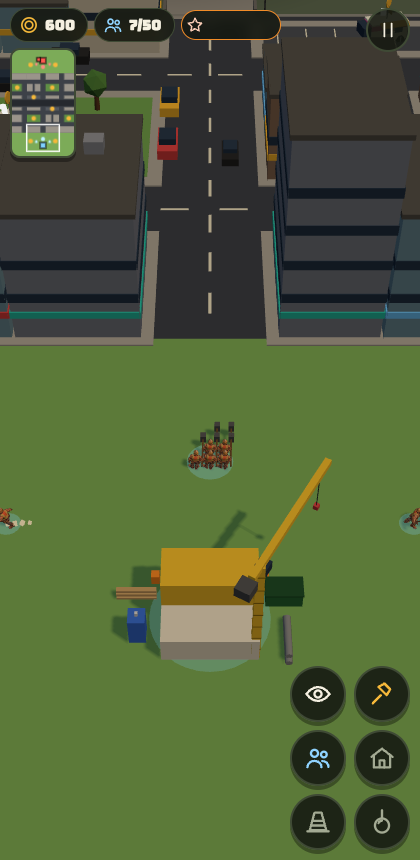
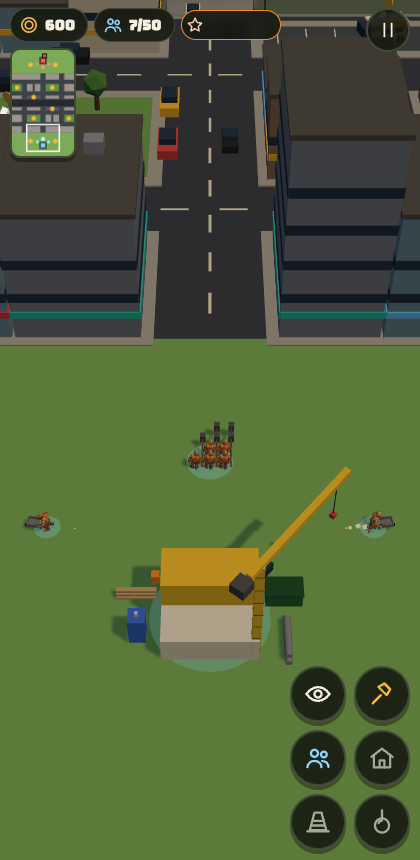
B95: Weather: about one match in four (seed % 4) is rainy - 500 thin streaks in one instanced draw following the camera, tiny splashes where they land, sky + fog greyed and the sun dimmed 45% on top of the time of day (setOvercast). Render only, sim untouched
Claude-Session: https://claude.ai/code/session_01FXzpagnksiDmMAqP3MTiXJ

diff --git a/src/main.js b/src/main.js
@@ -1,22 +1,22 @@
 // Entry point: wires sim + render + input + UI and runs the fixed-step loop.
-import { renderer, scene, camera, followSun, THREE, setTimeOfDay } from './render/scene.js?v=94';
-import { buildWorld, updateWorld, setDusk } from './render/world.js?v=94';
-import { syncRender, clearRender, bump } from './render/sync.js?v=94';
-import { handleEvents, updateFx, clearFx } from './fx/fx.js?v=94';
-import { newSim, getSim, step } from './sim/sim.js?v=94';
-import { TICK } from './config/factions.js?v=94';
-import { CAM, applyCam, resetCam, onResize } from './camera/camera.js?v=94';
-import { initInput, lockPageZoom } from './input/input.js?v=94';
-import { refreshHUD, resetHUD, updatePlaceBar } from './ui/hud.js?v=94';
-import { resetUI } from './ui/state.js?v=94';
-import { fillIcons, svg } from './ui/icons.js?v=94';
-import { noteAlerts, updateAlert, clearAlert } from './ui/alert.js?v=94';
-import { updateMinimap } from './ui/minimap.js?v=94';
-import { isMuted, setMuted } from './fx/sfx.js?v=94';
-import { loadChars } from './render/chars.js?v=94';
-import { FC } from './render/models.js?v=94';
+import { renderer, scene, camera, followSun, THREE, setTimeOfDay } from './render/scene.js?v=95';
+import { buildWorld, updateWorld, setDusk, setRain } from './render/world.js?v=95';
+import { syncRender, clearRender, bump } from './render/sync.js?v=95';
+import { handleEvents, updateFx, clearFx } from './fx/fx.js?v=95';
+import { newSim, getSim, step } from './sim/sim.js?v=95';
+import { TICK } from './config/factions.js?v=95';
+import { CAM, applyCam, resetCam, onResize } from './camera/camera.js?v=95';
+import { initInput, lockPageZoom } from './input/input.js?v=95';
+import { refreshHUD, resetHUD, updatePlaceBar } from './ui/hud.js?v=95';
+import { resetUI } from './ui/state.js?v=95';
+import { fillIcons, svg } from './ui/icons.js?v=95';
+import { noteAlerts, updateAlert, clearAlert } from './ui/alert.js?v=95';
+import { updateMinimap } from './ui/minimap.js?v=95';
+import { isMuted, setMuted } from './fx/sfx.js?v=95';
+import { loadChars } from './render/chars.js?v=95';
+import { FC } from './render/models.js?v=95';
 
-export const BUILD = 94; // written by `npm run bump`
+export const BUILD = 95; // written by `npm run bump`
 lockPageZoom();
 fillIcons();
 buildWorld();
@@ -38,7 +38,9 @@ const menu = document.getElementById('menu'), endEl = document.getElementById('e
 let running = false;
 function start(f) {
   clearRender(); clearFx(); clearAlert();
-  newSim(f, (Date.now() & 0xffffff) + 1, diff, mode);
+  const seed = (Date.now() & 0xffffff) + 1;
+  newSim(f, seed, diff, mode);
+  setRain(seed % 4 === 0); // about one match in four is rainy (render only)
   // Your faction's colour tints the HUD accents (power meter, command cards); friend/foe stays blue/red.
   const fc = new THREE.Color(FC[f].main), hx = (c) => '#' + c.getHexString(), root = document.documentElement.style;
   root.setProperty('--fc', hx(fc)); root.setProperty('--fc2', hx(fc.clone().lerp(new THREE.Color(0xffffff), 0.45)));

diff --git a/src/render/world.js b/src/render/world.js
@@ -1,9 +1,10 @@
 // Static city: streets, sidewalks, buildings, parks, freeway trench + overpasses, ambient traffic.
 // Built once from map/layout.js. Mostly InstancedMesh so it stays cheap on phones.
-import { THREE, scene, mat, box } from './scene.js?v=94';
-import { MAP, BLOCKS, TREES, PARKED, TRENCH, OVERPASSES, AVENUES, CROSS_STREETS, HOME_Z, inRect, walkH } from '../map/layout.js?v=94';
-import { hash } from '../util/math.js?v=94';
-import { emit } from '../fx/particles.js?v=94';
+import { THREE, scene, mat, box, setOvercast } from './scene.js?v=95';
+import { CAM } from '../camera/camera.js?v=95';
+import { MAP, BLOCKS, TREES, PARKED, TRENCH, OVERPASSES, AVENUES, CROSS_STREETS, HOME_Z, inRect, walkH } from '../map/layout.js?v=95';
+import { hash } from '../util/math.js?v=95';
+import { emit } from '../fx/particles.js?v=95';
 
 const COL = {
   asphalt: 0x3d4148, sidewalk: 0xa8a49a, grass: 0x6f9e50, lawn: 0x7cab58, lot: 0x4b4f56, stripe: 0xe8e2c8,
@@ -301,7 +302,33 @@ export function setDusk(k) {
   if (lampHeads) lampHeads.material.emissive.setRGB(1 * k, 0.85 * k, 0.45 * k);
   if (windows) windows.material.emissive.setRGB(0.5 * k, 0.36 * k, 0.12 * k);
 }
+// Rain: 500 thin streaks in a box that follows the camera target, each landing with a tiny splash. One draw call.
+let rain = null;
+export function setRain(on) {
+  if (!on) { if (rain) { rain.im.visible = false; rain.on = false; } setOvercast(0); return; }
+  if (!rain) {
+    const N = 500, im = new THREE.InstancedMesh(new THREE.BoxGeometry(0.03, 0.9, 0.03), new THREE.MeshBasicMaterial({ color: 0xcfe2f2, transparent: true, opacity: 0.45, depthWrite: false }), N);
+    im.frustumCulled = false; scene.add(im);
+    rain = { im, N, drops: Array.from({ length: N }, () => ({ x: (Math.random() - 0.5) * 80, y: Math.random() * 30, z: (Math.random() - 0.5) * 80 })) };
+  }
+  rain.on = true; rain.im.visible = true; setOvercast(1);
+}
+function updateRain(dt) {
+  if (!rain || !rain.on) return;
+  Q.identity(); Sv.set(1, 1, 1);
+  rain.drops.forEach((d, i) => {
+    d.y -= dt * 22; d.x += dt * 2;
+    const wx = CAM.tx + d.x, wz = CAM.tz + d.z, gy = walkH(wx, wz);
+    if (d.y < gy) {
+      if (i % 6 === 0) emit({ x: wx, y: gy + 0.05, z: wz, vx: (Math.random() - 0.5), vy: 1.2, vz: (Math.random() - 0.5), c: 0xdbe8f2, s: 0.08, life: 0.25, g: 9 });
+      d.y = gy + 20 + Math.random() * 10; d.x = (Math.random() - 0.5) * 80; d.z = (Math.random() - 0.5) * 80;
+    }
+    M.compose(V.set(wx, d.y, wz), Q, Sv); rain.im.setMatrixAt(i, M);
+  });
+  rain.im.instanceMatrix.needsUpdate = true;
+}
 export function updateWorld(dt, S) {
+  updateRain(dt);
   updateLife(dt, S);
   if (!traffic) return;
   const { im, cars, lights } = traffic;

diff --git a/index.html b/index.html
@@ -6,7 +6,7 @@
 <meta name="viewport" content="width=device-width,initial-scale=1,maximum-scale=1,user-scalable=no,viewport-fit=cover">
 <link rel="preconnect" href="https://fonts.googleapis.com">
 <link rel="stylesheet" href="https://fonts.googleapis.com/css2?family=Bungee&family=Lilita+One&display=swap">
-<link rel="stylesheet" href="./src/ui/style.css?v=94">
+<link rel="stylesheet" href="./src/ui/style.css?v=95">
 <!-- No build step needed: GitHub Pages serves this file straight from main, so bare 'three' imports resolve here. -->
 <script type="importmap">
 { "imports": { "three": "./vendor/three/three.module.min.js", "three/examples/jsm/": "./vendor/three/jsm/" } }
@@ -34,7 +34,7 @@
 <div id="box"></div>
 <div id="holdRing" hidden></div>
 <div id="menu" class="overlay">
-  <h1>Culture <em>Wars</em><span>GREYBOX 04 · <b id="build">B94</b></span></h1>
+  <h1>Culture <em>Wars</em><span>GREYBOX 04 · <b id="build">B95</b></span></h1>
   <div class="diff" id="diff"><button type="button" data-d="0" aria-label="Easy"><span class="ic" data-i="star"></span></button><button type="button" data-d="1" class="on" aria-label="Normal"><span class="ic" data-i="star"></span><span class="ic" data-i="star"></span></button><button type="button" data-d="2" aria-label="Hard"><span class="ic" data-i="star"></span><span class="ic" data-i="star"></span><span class="ic" data-i="star"></span></button><i class="sep"></i><button type="button" class="mode" data-m="vs" aria-label="Versus"><span class="ic" data-i="home"></span></button><button type="button" class="mode" data-m="hill" aria-label="King of the Hill"><span class="ic" data-i="flag"></span></button></div>
   <div class="picks">
     <button class="pick" data-f="bw" type="button"><span class="ic" data-i="truck"></span>Backwoods<small>FEWER · TOUGHER</small></button>
@@ -63,6 +63,6 @@
   setTimeout(function () { if (!window.__cwBooted) show('Game script did not start (old cached file? wait a few minutes and reload)'); }, 8000);
 })();
 </script>
-<script type="module" src="./src/main.js?v=94" onerror="__cwLoadFail()"></script>
+<script type="module" src="./src/main.js?v=95" onerror="__cwLoadFail()"></script>
 </body>
 </html>

diff --git a/src/render/sync.js b/src/render/sync.js
@@ -1,18 +1,18 @@
 // Mirrors sim state into the scene every frame. Reads the sim, never writes to it.
-import { THREE, scene, camera, mat, box, basic, ringMesh, disposeObj, casts } from './scene.js?v=94';
-import { makeMember, bldMesh, nodeMesh, formation, FC } from './models.js?v=94';
-import { makeChar, charsReady, play, CAST } from './chars.js?v=94';
-import { emit } from '../fx/particles.js?v=94';
-import { bark } from '../fx/sfx.js?v=94';
-import { TICK } from '../config/factions.js?v=94';
-import { walkH } from '../map/layout.js?v=94';
-import { NODE_AMOUNT, BLD, BUILD_RADIUS, FACTIONS } from '../config/factions.js?v=94';
-import { CAM } from '../camera/camera.js?v=94';
+import { THREE, scene, camera, mat, box, basic, ringMesh, disposeObj, casts } from './scene.js?v=95';
+import { makeMember, bldMesh, nodeMesh, formation, FC } from './models.js?v=95';
+import { makeChar, charsReady, play, CAST } from './chars.js?v=95';
+import { emit } from '../fx/particles.js?v=95';
+import { bark } from '../fx/sfx.js?v=95';
+import { TICK } from '../config/factions.js?v=95';
+import { walkH } from '../map/layout.js?v=95';
+import { NODE_AMOUNT, BLD, BUILD_RADIUS, FACTIONS } from '../config/factions.js?v=95';
+import { CAM } from '../camera/camera.js?v=95';
 const fac0 = (S) => FACTIONS[S.players[0].f];
-import { Q, pl, getSim } from '../sim/sim.js?v=94';
-import { UI } from '../ui/state.js?v=94';
-import { fxConfetti, fxDeath } from '../fx/fx.js?v=94';
-import { lerpAngle } from '../util/math.js?v=94';
+import { Q, pl, getSim } from '../sim/sim.js?v=95';
+import { UI } from '../ui/state.js?v=95';
+import { fxConfetti, fxDeath } from '../fx/fx.js?v=95';
+import { lerpAngle } from '../util/math.js?v=95';
 // Selection rings take your faction colour, washed toward white so they still pop on any ground.
 const selCol = () => { const S = getSim(), f = S && S.players[0].f; return f ? new THREE.Color(FC[f].main).lerp(new THREE.Color(0xffffff), 0.35).getHex() : 0xffffff; };
 

diff --git a/src/ui/hud.js b/src/ui/hud.js
@@ -1,15 +1,15 @@
 // HUD: resource chips, context panel, command buttons, floating placement confirm, long-press labels.
 // Buttons are described as data ("specs") each refresh; the DOM is rebuilt only when the set of buttons changes.
 // Every action goes through sim.command(); Q.* is used only for instant feedback (shake, dim).
-import { svg } from './icons.js?v=94';
-import { UI, select, selSquads } from './state.js?v=94';
-import { getSim, pl, fac, Q, command, count, cpUsed, cpCap, hqOf } from '../sim/sim.js?v=94';
-import { BLD, BUILD_KINDS, TRAIN_SLOTS, UPG, REQ } from '../config/factions.js?v=94';
-import { CAM, toggleView, focus } from '../camera/camera.js?v=94';
-import { camera } from '../render/scene.js?v=94';
-import { walkH } from '../map/layout.js?v=94';
-import { THREE } from '../render/scene.js?v=94';
-import { showHint } from './hint.js?v=94';
+import { svg } from './icons.js?v=95';
+import { UI, select, selSquads } from './state.js?v=95';
+import { getSim, pl, fac, Q, command, count, cpUsed, cpCap, hqOf } from '../sim/sim.js?v=95';
+import { BLD, BUILD_KINDS, TRAIN_SLOTS, UPG, REQ } from '../config/factions.js?v=95';
+import { CAM, toggleView, focus } from '../camera/camera.js?v=95';
+import { camera } from '../render/scene.js?v=95';
+import { walkH } from '../map/layout.js?v=95';
+import { THREE } from '../render/scene.js?v=95';
+import { showHint } from './hint.js?v=95';
 
 const panelEl = document.getElementById('panel'), cmdEl = document.getElementById('cmd'), queueEl = document.getElementById('queue');
 const placeBar = document.getElementById('placeBar'), tipEl = document.getElementById('tip');

diff --git a/src/render/scene.js b/src/render/scene.js
@@ -31,11 +31,17 @@ export function followSun(x, z) {
 /** Time of day, k = 0 (morning) .. 1 (golden hour): the sun drops lower, warmer and longer-shadowed, the sky
  * and fog go peach, the sky fill dims. Only colours and one direction change, so it costs nothing per frame. */
 const DAY = { sun: new THREE.Color(0xffe0b0), dusk: new THREE.Color(0xff9c55), sky: new THREE.Color(0xa9c8de), skyD: new THREE.Color(0xf2b98e), hemi: new THREE.Color(0xdcecff), hemiD: new THREE.Color(0xffd2b0) };
+let lastTod = 0, overcast = 0;
+const GREY = new THREE.Color(0x8d969e);
+/** Rain: greys the sky/fog and dims the sun on top of the time of day (k 0..1). */
+export function setOvercast(k) { overcast = k; setTimeOfDay(lastTod); }
 export function setTimeOfDay(k) {
+  lastTod = k;
   sun.color.copy(DAY.sun).lerp(DAY.dusk, k); sun.intensity = 1.25 - 0.1 * k;
   SUN_OFF.set(30 + 25 * k, 60 - 18 * k, 22 + 14 * k);
   scene.background.copy(DAY.sky).lerp(DAY.skyD, k); scene.fog.color.copy(scene.background);
   hemi.color.copy(DAY.hemi).lerp(DAY.hemiD, k); hemi.intensity = 0.85 - 0.08 * k;
+  if (overcast > 0) { scene.background.lerp(GREY, 0.55 * overcast); scene.fog.color.copy(scene.background); sun.intensity *= 1 - 0.45 * overcast; }
 }
 /** Mark a subtree as shadow casters. */
 export function casts(o) { o.traverse((n) => { if (n.isMesh) n.castShadow = true; }); return o; }

diff --git a/src/input/input.js b/src/input/input.js
@@ -4,13 +4,13 @@
 //   hold then drag  = box select
 //   2 fingers       = pinch zoom + twist to rotate + drag to pan
 //   mouse: right-drag = box select, wheel = zoom; keys WASD/arrows pan, Q/E rotate, V ghost cam, Esc cancel
-import { THREE, camera, canvas } from '../render/scene.js?v=94';
-import { walkH } from '../map/layout.js?v=94';
-import { getSim, command } from '../sim/sim.js?v=94';
-import { UI, select, selSquads } from '../ui/state.js?v=94';
-import { CAM, panBy, clampCam, toggleView, pxPerUnit } from '../camera/camera.js?v=94';
-import { fxMarker } from '../fx/fx.js?v=94';
-import { ack } from '../render/sync.js?v=94';
+import { THREE, camera, canvas } from '../render/scene.js?v=95';
+import { walkH } from '../map/layout.js?v=95';
+import { getSim, command } from '../sim/sim.js?v=95';
+import { UI, select, selSquads } from '../ui/state.js?v=95';
+import { CAM, panBy, clampCam, toggleView, pxPerUnit } from '../camera/camera.js?v=95';
+import { fxMarker } from '../fx/fx.js?v=95';
+import { ack } from '../render/sync.js?v=95';
 
 const ray = new THREE.Raycaster(), ndc = new THREE.Vector2(), tmp = new THREE.Vector3();
 export function groundAt(cx, cy) {

diff --git a/src/fx/fx.js b/src/fx/fx.js
@@ -1,12 +1,12 @@
 // Visual effects. Reads sim events, never changes the sim.
 // To add an effect for a new mechanic: emit S.events.push({k:'myThing', ...}) in the sim,
 // then add a case in handleEvents below.
-import { THREE, scene, mat, cyl, basic, disposeObj } from '../render/scene.js?v=94';
-import { walkH } from '../map/layout.js?v=94';
-import { sfx } from './sfx.js?v=94';
-import { shake, CAM } from '../camera/camera.js?v=94';
-import { FC } from '../render/models.js?v=94';
-import { emit, updateParticles, clearParticles, burstHit, burstShot, burstCoins } from './particles.js?v=94';
+import { THREE, scene, mat, cyl, basic, disposeObj } from '../render/scene.js?v=95';
+import { walkH } from '../map/layout.js?v=95';
+import { sfx } from './sfx.js?v=95';
+import { shake, CAM } from '../camera/camera.js?v=95';
+import { FC } from '../render/models.js?v=95';
+import { emit, updateParticles, clearParticles, burstHit, burstShot, burstCoins } from './particles.js?v=95';
 
 const fx = [];
 function addFx(obj, life, upd) { scene.add(obj); fx.push({ obj, life, t: 0, upd }); }

diff --git a/src/sim/sim.js b/src/sim/sim.js
@@ -9,11 +9,11 @@
 import {
   TICK, START_CASH, BUILD_RADIUS, MAX_WORKERS, NODE_AMOUNT, GATHER_T, CARRY, BASE_INCOME, DEPOT_INCOME,
   COUNTER, REQ, UPG, UPT, BLD, FACTIONS,
-} from '../config/factions.js?v=94';
-import { MAP, NODES, BASES, walkH } from '../map/layout.js?v=94';
-import { markCircle, isBlocked, lineClear, nearestFree, findPath, blocked, cellOf, cellCenter, inGrid } from '../map/grid.js?v=94';
-import { mulberry32 } from '../util/math.js?v=94';
-import { aiStep } from './ai.js?v=94';
+} from '../config/factions.js?v=95';
+import { MAP, NODES, BASES, walkH } from '../map/layout.js?v=95';
+import { markCircle, isBlocked, lineClear, nearestFree, findPath, blocked, cellOf, cellCenter, inGrid } from '../map/grid.js?v=95';
+import { mulberry32 } from '../util/math.js?v=95';
+import { aiStep } from './ai.js?v=95';
 
 let S = null;
 export const getSim = () => S;

diff --git a/src/ui/minimap.js b/src/ui/minimap.js
@@ -1,8 +1,8 @@
 // Minimap, top-left under the resource chips. Fixed orientation: your base at the bottom (+z), enemy at the top.
 // Tap or drag on it to move the camera there. Static city is drawn once; units/buildings redraw ~10x a second.
-import { MAP, BLOCKS, TRENCH } from '../map/layout.js?v=94';
-import { CAM, focus } from '../camera/camera.js?v=94';
-import { getSim } from '../sim/sim.js?v=94';
+import { MAP, BLOCKS, TRENCH } from '../map/layout.js?v=95';
+import { CAM, focus } from '../camera/camera.js?v=95';
+import { getSim } from '../sim/sim.js?v=95';
 
 const cv = document.getElementById('mini'), ctx = cv.getContext('2d');
 const bg = document.createElement('canvas'), bctx = bg.getContext('2d');

diff --git a/src/ui/alert.js b/src/ui/alert.js
@@ -1,9 +1,9 @@
 // Under-attack alert: when something of yours is hit somewhere the camera is not looking, a red arrow pulses on
 // the screen edge pointing at it. Tap the arrow to fly there. Newest fight wins; it fades 5 s after the last hit.
-import { THREE, camera } from '../render/scene.js?v=94';
-import { walkH } from '../map/layout.js?v=94';
-import { focus } from '../camera/camera.js?v=94';
-import { svg } from './icons.js?v=94';
+import { THREE, camera } from '../render/scene.js?v=95';
+import { walkH } from '../map/layout.js?v=95';
+import { focus } from '../camera/camera.js?v=95';
+import { svg } from './icons.js?v=95';
 
 const el = document.getElementById('alert');
 el.innerHTML = svg('up');

diff --git a/src/render/chars.js b/src/render/chars.js
@@ -2,7 +2,7 @@
 // clips drives all of them: the clips come from three DONOR files and are retargeted onto each rig by bone name.
 // Nothing here is required: until the files load (or if they fail, e.g. the single-file artifact build) the
 // box placeholders in models.js are used, and sync.js swaps squads over once this reports ready.
-import { THREE } from './scene.js?v=94';
+import { THREE } from './scene.js?v=95';
 import { GLTFLoader } from 'three/examples/jsm/loaders/GLTFLoader.js';
 import { DRACOLoader } from 'three/examples/jsm/loaders/DRACOLoader.js';
 import { clone as skClone } from 'three/examples/jsm/utils/SkeletonUtils.js';
